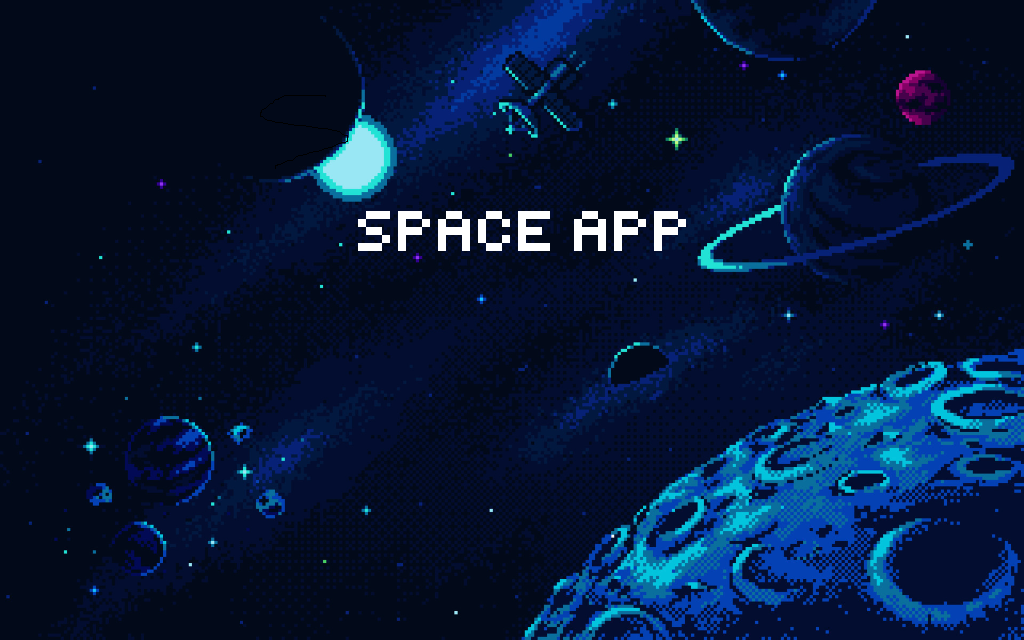
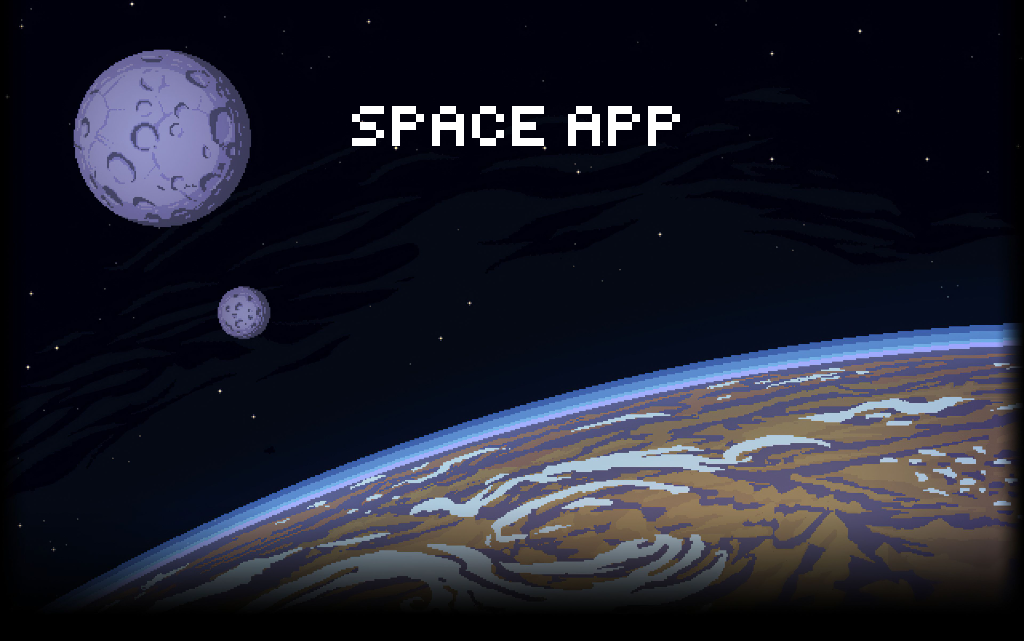
added random enemy spawning loops to spawn offscreen
also added new background and transparent sprites + moving pause screen buttons to the correct location

diff --git a/assets/main.py b/assets/main.py
@@ -13,13 +13,23 @@ def run_normal():
     score = 0
     score_timer = 0
     Player = player(960, 540, 1)
-    Enemy = enemy(800, 900, 1)
     font = pygame.font.SysFont(None, 48)
+    #enemy spawning
+    enemies = 10
+    aliveenemies = []
+    #pause screen variables
     paused = False
-    resume_button = (pygame_gui.elements.UIButton(relative_rect=pygame.Rect((780, 350), (100, 60)), text='Resume', manager=manager))
-    quit_button = (pygame_gui.elements.UIButton(relative_rect=pygame.Rect((900, 350), (100, 60)), text='Quit', manager=manager))
+    resume_button = (pygame_gui.elements.UIButton(relative_rect=pygame.Rect((840, 350), (100, 60)), text='Resume', manager=manager))
+    quit_button = (pygame_gui.elements.UIButton(relative_rect=pygame.Rect((1080, 350), (100, 60)), text='Quit', manager=manager))
     gamewallpaper = pygame.image.load("gamewallpaper.png")
     gamewallpaper = pygame.transform.scale(gamewallpaper, (1920, 1080))
+
+    for _ in range(enemies):
+            randoffscreenx = random.randint(0, 1920)
+            randoffscreeny = random.randint(1, 100)
+            randoffscreeny = randoffscreeny * -1
+            newenemy = enemy(randoffscreenx, randoffscreeny, 1)
+            aliveenemies.append(newenemy)
 
     running = True
     while running:
@@ -27,8 +37,10 @@ def run_normal():
         clock.tick(60)
         keys = pygame.key.get_pressed()
 
-       
+        #random spawn of enemies off screen
+        
 
+        #pausescreen
         for event in pygame.event.get():
             if event.type == pygame.KEYDOWN and event.key == pygame.K_ESCAPE:
                 paused = True
@@ -53,29 +65,39 @@ def run_normal():
             resume_button.hide()
             quit_button.hide()
 
+        player_rect = pygame.Rect(Player.get_position(), (Player._width, Player._height))
         for bullet in Player._bullets[:]:
             bullet_rect = pygame.Rect(bullet['pos'][0], bullet['pos'][1], 10, 10)
-            enemy_rect = pygame.Rect(Enemy.get_position(), (Enemy._width, Enemy._height))
+           
+            for e in aliveenemies[:]:
+                enemy_rect = pygame.Rect(e.get_position(), (e._width, e._height))
 
-            if bullet_rect.colliderect(enemy_rect):
-                Player._bullets.remove(bullet)  
-                Enemy.hurt()
-                if Enemy.die() == True:
-                    Enemy._dead = True
-                    score += 3
+                if bullet_rect.colliderect(enemy_rect):
+                    Player._bullets.remove(bullet)  
+                    e.hurt()
+                    if e.die() == True:
+                        aliveenemies.remove(e) 
+                        score += 3
+                    break
+
+        for e in aliveenemies:
+            enemy_rect = pygame.Rect(e.get_position(), (e._width, e._height))    
+            if enemy_rect.colliderect(player_rect):
+                running = False
+                break
         
         screen.blit(gamewallpaper, (0,0))
         
         if paused:
             pause = font.render("Game Paused", True, (255, 255, 255))
-            screen.blit(pause, (780, 200))
+            screen.blit(pause, (890, 200))
                 
         
         
         display_score = font.render(f"Score: {score}", True, (255, 255, 255))
         screen.blit(display_score, (1700, 20))
         
-        
+       
         if not paused: 
 
             score_timer += fpscap
@@ -84,15 +106,18 @@ def run_normal():
                 score += 1
                 score_timer -= 1
 
+            
+
             Player.direction()
             Player.update_player_pos()
             Player.shoot(keys)
             Player.draw_bullets()
             Player.draw()
 
-            if not Enemy._dead:
-                Enemy.chase(Player)
-                Enemy.draw()
+            for e in aliveenemies:
+                e.chase(Player)
+                e.draw()
+                
         
 
         

diff --git a/assets/game_objects.py b/assets/game_objects.py
@@ -2,6 +2,15 @@ import pygame
 import pygame_gui
 import time 
 import math
+import ctypes
+import ctypes
+
+#fixes OS scaling bug that windows does automatically making the game zoom in, makes pygame "dpi aware"
+try:
+    ctypes.windll.shcore.SetProcessDpiAwareness(1) 
+except AttributeError:
+   
+    pass
 
 pygame.init()
 
